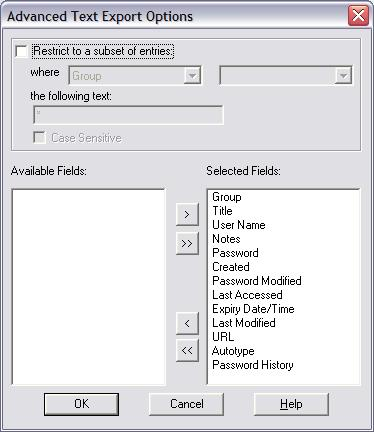
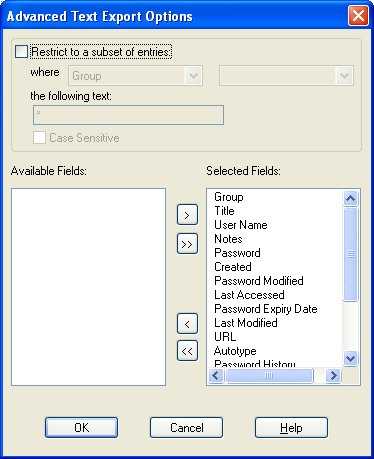
help file (en + de) version 3.20 last changes

Changed region(s): [[0.0, 0.0, 1.0, 1.0]]

diff --git a/pwsafe/pwsafe/help/default/html/imp_exp_text_details.html b/pwsafe/pwsafe/help/default/html/imp_exp_text_details.html
@@ -152,92 +152,24 @@ following fields by default, separated by a tab.<o:p></o:p></span></p>
 
 
 <ul>
-
-
-
-
-
   <li><span style="font-size: 11pt;" lang="EN-GB"><o:p></o:p>Group/Title<o:p></o:p></span></li>
-
-
-
-
-
   <li><span style="font-size: 11pt;" lang="EN-GB">Username<o:p></o:p></span></li>
-
-
-
-
-
   <li><span style="font-size: 11pt;" lang="EN-GB">Password<o:p></o:p></span></li>
-
-
-
-
-
   <li><span style="font-size: 11pt;" lang="EN-GB">URL<o:p></o:p></span></li>
-
-
-
-
-
   <li><span style="font-size: 11pt;" lang="EN-GB">AutoType<o:p></o:p></span></li>
-
-
-
-
-
-  <li><span style="font-size: 11pt;" lang="EN-GB">Created
-Time<o:p></o:p></span></li>
-
-
-
-
-
-  <li><span style="font-size: 11pt;" lang="EN-GB">Password
-Modified Time<o:p></o:p></span></li>
-
-
-
-
-
-  <li><span style="font-size: 11pt;" lang="EN-GB">Last
-Access Time<o:p></o:p></span></li>
-
-
-
-
-
-  <li><span style="font-size: 11pt;" lang="EN-GB">Password
-Expiry Date<o:p></o:p></span></li>
-
-
-
-
-
-  <li><span style="font-size: 11pt;" lang="EN-GB">Record
-Modified Time<o:p></o:p></span></li>
-
-
-
-
-
+  <li><span style="font-size: 11pt;" lang="EN-GB">Created Time<o:p></o:p></span></li>
+  <li><span style="font-size: 11pt;" lang="EN-GB">Password Modified Time<o:p></o:p></span></li>
+  <li><span style="font-size: 11pt;" lang="EN-GB">Last Access Time<o:p></o:p></span></li>
+  <li><span style="font-size: 11pt;" lang="EN-GB">Password Expiry Date<o:p></o:p></span></li>
+  <li><span style="font-size: 11pt;" lang="EN-GB">Password Expiry Interval<o:p></o:p></span></li>
+  <li><span style="font-size: 11pt;" lang="EN-GB">Record Modified Time<o:p></o:p></span></li>
+  <li><span style="font-size: 11pt;" lang="EN-GB">Password Policy<o:p></o:p></span></li>
   <li><span style="font-size: 11pt;" lang="EN-GB">History<o:p></o:p></span></li>
-
-
-
-
-
+  <li><span style="font-size: 11pt;" lang="EN-GB">Run Command<o:p></o:p></span></li>
+  <li><span style="font-size: 11pt;" lang="EN-GB">DCA<o:p></o:p></span></li>
+  <li><span style="font-size: 11pt;" lang="EN-GB">e-mail<o:p></o:p></span></li>
   <li><span style="font-size: 11pt;" lang="EN-GB">Notes<o:p></o:p></span></li>
-
-
-
-
-
 </ul>
-
-
-
 
 
 <p class="CitiChangeSummarybullet" style="margin-left: 0in; text-align: justify;"><span style="font-size: 11pt;" lang="EN-GB"><span style=""></span>When

diff --git a/pwsafe/pwsafe/help/pwsafeDE/html/imp_exp_text_details.html b/pwsafe/pwsafe/help/pwsafeDE/html/imp_exp_text_details.html
@@ -37,8 +37,13 @@
   <li>Passwort &Auml;nderungszeit</li>
   <li>Letzter Zugriffszeit</li>
   <li>Passwort Ablaufdatum</li>
+  <li>Passwort Ablaufintervall</li>
   <li>Datensatz &Auml;nderungszeit</li>
+  <li>Passwort Richtlinie</li>
   <li>Historie</li>
+  <li>Kommando Ausf&uuml;hren</li>
+  <li>DCA</li>
+  <li>E-mail</li>
   <li>Notizen</li>
 </ul>
 <p>Beim Exportieren von Daten, k&ouml;nnen Sie auf "Erweitert" dr&uuml;cken, um eine beliebige Anzahl dieser Felder auszuschlie&szlig;en in der Titel-Zeile und den Datens&auml;tzen. In der Option "Erweitert" (siehe unten) definieren Sie eine Untermenge an Eintr&auml;ge die Sie Exportieren wollen.</p>
